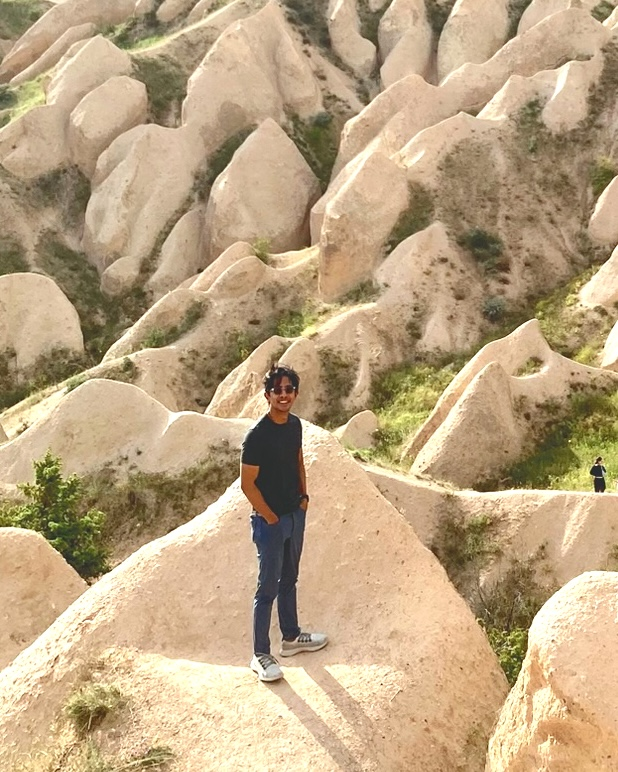
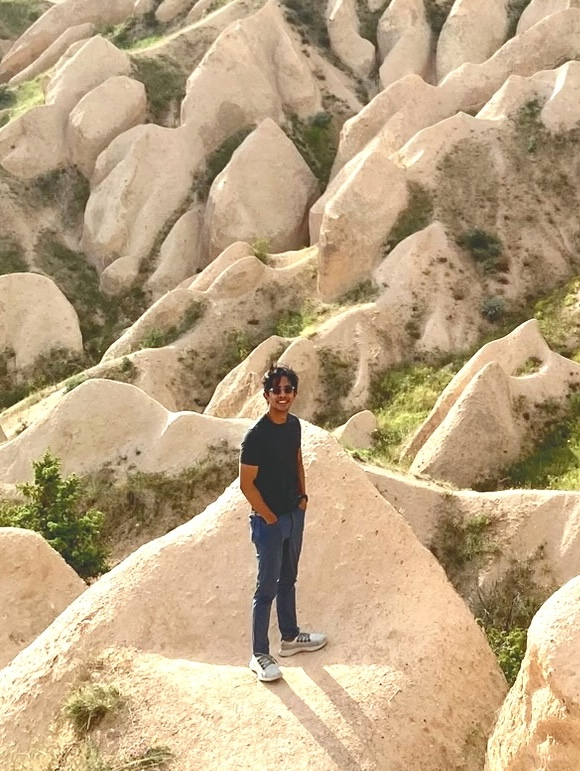
Update Turkey2 photo, equal-width Turkey layout, French Alps caption, NYC caption spacing

diff --git a/memories.html b/memories.html
@@ -187,9 +187,9 @@
       <p style="font-family:var(--font-sans);font-weight:300;font-size:clamp(0.8rem,2vw,1.1rem);letter-spacing:0.04em;color:#555;margin-top:0.4em;text-align:center">Cambridge, Spring 2023</p>
     </div>
     <div style="position:relative;z-index:1;align-self:center;margin-top:2.4em;width:84%;text-align:center">
-      <div style="display:flex;gap:0.5em;align-items:flex-end">
-        <img data-src="assets/images/Turkey1.JPG" alt="" role="presentation" decoding="async" style="width:44%;height:auto;border-radius:10px;box-shadow:0 4px 22px rgba(80,45,20,0.48)" />
-        <img data-src="assets/images/Turkey2.JPG" alt="" role="presentation" decoding="async" style="width:55%;height:auto;border-radius:10px;box-shadow:0 4px 22px rgba(80,45,20,0.48)" />
+      <div style="display:flex;gap:0.5em;align-items:flex-start">
+        <img data-src="assets/images/Turkey1.JPG" alt="" role="presentation" decoding="async" style="flex:1;min-width:0;height:auto;border-radius:10px;box-shadow:0 4px 22px rgba(80,45,20,0.48)" />
+        <img data-src="assets/images/Turkey2.JPG" alt="" role="presentation" decoding="async" style="flex:1;min-width:0;height:auto;border-radius:10px;box-shadow:0 4px 22px rgba(80,45,20,0.48)" />
       </div>
       <p style="font-family:var(--font-sans);font-weight:300;font-size:clamp(0.8rem,2vw,1.1rem);letter-spacing:0.04em;color:#555;margin-top:0.4em;text-align:center">Turkey, Summer 2023</p>
     </div>
@@ -266,7 +266,7 @@
     </div>
     <div style="position:relative;z-index:1;align-self:center;margin-top:2.4em;width:59.5%;text-align:center">
       <img data-src="assets/images/South of France.jpg" alt="" role="presentation" decoding="async" style="width:100%;height:auto;border-radius:10px;box-shadow:0 4px 22px rgba(80,45,20,0.48)" />
-      <p style="font-family:var(--font-sans);font-weight:300;font-size:clamp(0.8rem,2vw,1.1rem);letter-spacing:0.04em;color:#555;margin-top:0.4em;text-align:center">South of France, Summer 2026</p>
+      <p style="font-family:var(--font-sans);font-weight:300;font-size:clamp(0.8rem,2vw,1.1rem);letter-spacing:0.04em;color:#555;margin-top:0.4em;text-align:center">French Alps, Summer 2026</p>
     </div>
     <div style="position:relative;z-index:1;align-self:center;margin-top:2.4em;width:59.5%;text-align:center">
       <img data-src="assets/images/Aspen.jpg" alt="" role="presentation" decoding="async" style="width:100%;height:auto;border-radius:10px;box-shadow:0 4px 22px rgba(80,45,20,0.48)" />
@@ -293,7 +293,7 @@
           <img data-src="assets/images/NYC 43.jpg" alt="" role="presentation" decoding="async" style="width:100%;height:auto;border-radius:10px;box-shadow:0 4px 22px rgba(80,45,20,0.48)" />
         </div>
       </div>
-      <p style="font-family:var(--font-sans);font-weight:300;font-size:clamp(0.8rem,2vw,1.1rem);letter-spacing:0.04em;color:#555;margin-top:0.4em;text-align:center">NYC, 2023–2026</p>
+      <p style="font-family:var(--font-sans);font-weight:300;font-size:clamp(0.8rem,2vw,1.1rem);letter-spacing:0.04em;color:#555;margin-top:0.7em;text-align:center">NYC, 2023–2026</p>
     </div>
   </section>
 
